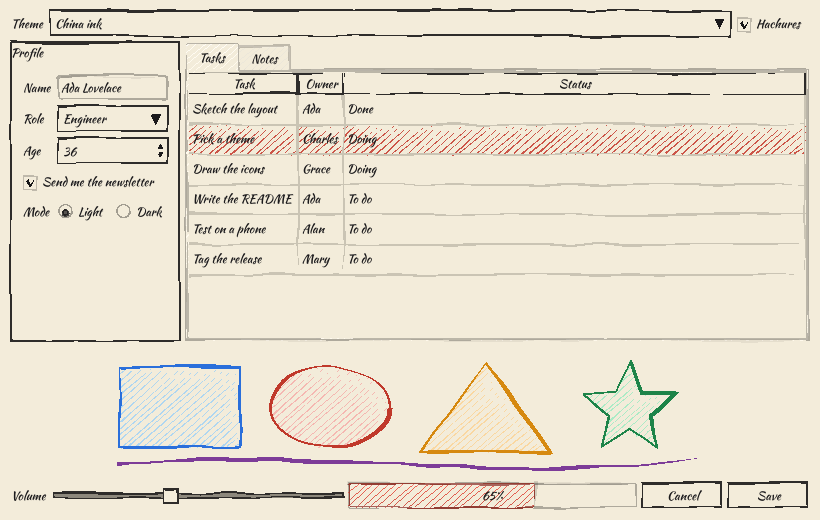
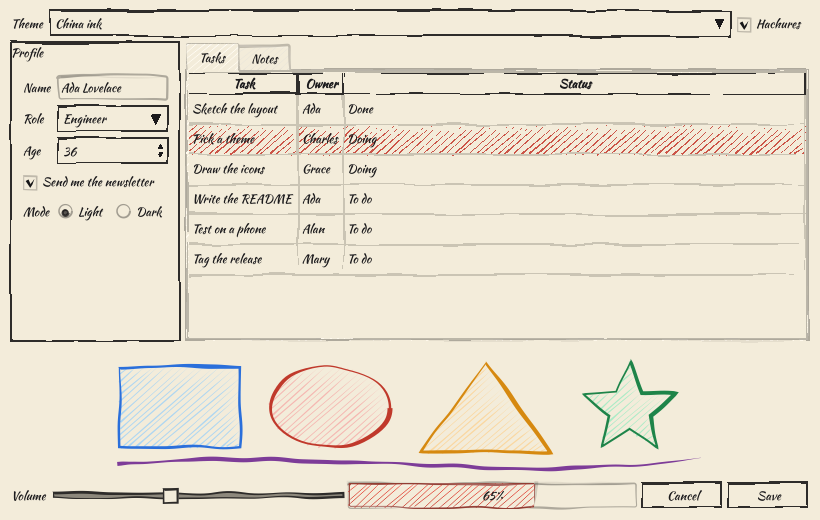
Smooth where the painter asks for it, and keep bold and italic text
The engine dropped the QPainter::Antialiasing hint of the device painter:
every rough line and fill came out aliased, even where a widget or Fusion
asked for a smooth drawing. It now smooths as the painter says, as Qt
draws. A smoothed fill is laid tile by tile on the raster engine, as the
watercolor glaze already was: smoothed in one piece, a long ribbon takes
as many passes as it is long.

The text, written in the font of the theme, keeps the bold and the italic
of the font of the painter. A theme that writes bolder keeps its weight.

The README images are rendered again, and CLAUDE.md says to render them
again with every change of the drawing.

Claude-Session: https://claude.ai/code/session_016U3iJXttKo76SmiXhzbj7k

diff --git a/hpq/tests/HandPaintSmoothingTest.cpp b/hpq/tests/HandPaintSmoothingTest.cpp
@@ -1,0 +1,113 @@
+#include <hpq/HandPaintDevice.h>
+#include <hpq/PaintCache.h>
+#include <hpq/RoughGeometryEngine.h>
+#include <hpq/SketchTheme.h>
+
+#include <gtest/gtest.h>
+
+#include <QImage>
+#include <QPainter>
+
+#include <cstdint>
+#include <functional>
+
+// A rough shape is smoothed where the device painter asks for it, with QPainter::Antialiasing,
+// as Qt draws: its edges then have pixels between the color of the pen and the paper.
+
+namespace {
+
+// The base seed of the rough geometry engines: the tests draw the same paths at every run.
+constexpr std::uint32_t BaseSeed = 2024;
+
+constexpr int TargetSize = 300;
+
+using Paint = std::function<void(QPainter &)>;
+
+// The pixels of `image` that are neither black nor white.
+int grey_pixels(const QImage &image) {
+    int count = 0;
+    for (int y = 0; y < image.height(); ++y) {
+        for (int x = 0; x < image.width(); ++x) {
+            const int grey = qGray(image.pixel(x, y));
+            if (grey > 0 && grey < 255) {
+                ++count;
+            }
+        }
+    }
+    return count;
+}
+
+void draw_line(QPainter &painter) {
+    painter.setPen(QPen(Qt::black, 1));
+    painter.drawLine(QPointF(30, 40), QPointF(270, 200));
+}
+
+// Wider than a tile of the raster engine: it is filled in several pieces.
+void draw_wide_outline(QPainter &painter) {
+    painter.setPen(QPen(Qt::black, 4));
+    painter.setBrush(Qt::NoBrush);
+    painter.drawEllipse(QRectF(20, 20, 260, 260));
+}
+
+void fill_ellipse(QPainter &painter) {
+    painter.setPen(Qt::NoPen);
+    painter.setBrush(Qt::black);
+    painter.drawEllipse(QRectF(20, 20, 260, 260));
+}
+
+class HandPaintSmoothingTest : public testing::Test {
+protected:
+    // What `paint` draws on a white image through a HandPaintDevice whose painter asks to be
+    // smoothed, or not.
+    QImage paint_by_hand(bool smoothed, const Paint &paint, hpq::PaintCache *cache = nullptr) const {
+        QImage image(TargetSize, TargetSize, QImage::Format_RGB32);
+        image.fill(Qt::white);
+        QPainter target_painter(&image);
+        hpq::HandPaintDevice device(target_painter, m_theme, m_geometry_engine, cache);
+        QPainter painter(&device);
+        painter.setRenderHint(QPainter::Antialiasing, smoothed);
+        paint(painter);
+        painter.end();
+        target_painter.end();
+        return image;
+    }
+
+    hpq::Theme m_theme = hpq::sketch_theme();
+    hpq::RoughGeometryEngine m_geometry_engine{BaseSeed};
+};
+
+TEST_F(HandPaintSmoothingTest, LineIsSmoothedWhenThePainterAsksForIt) {
+    EXPECT_GT(grey_pixels(paint_by_hand(true, draw_line)), 100);
+}
+
+TEST_F(HandPaintSmoothingTest, LineStaysSharpWhenThePainterDoesNotAsk) {
+    EXPECT_EQ(grey_pixels(paint_by_hand(false, draw_line)), 0);
+}
+
+TEST_F(HandPaintSmoothingTest, WideOutlineKeptByTheCacheIsSmoothed) {
+    hpq::PaintCache smoothed_cache;
+    hpq::PaintCache sharp_cache;
+
+    EXPECT_GT(grey_pixels(paint_by_hand(true, draw_wide_outline, &smoothed_cache)), 500);
+    EXPECT_EQ(grey_pixels(paint_by_hand(false, draw_wide_outline, &sharp_cache)), 0);
+}
+
+TEST_F(HandPaintSmoothingTest, FillIsSmoothedWhenThePainterAsksForIt) {
+    EXPECT_GT(grey_pixels(paint_by_hand(true, fill_ellipse)), 300);
+    EXPECT_EQ(grey_pixels(paint_by_hand(false, fill_ellipse)), 0);
+}
+
+TEST_F(HandPaintSmoothingTest, SmoothedFillLeavesNoSeamBetweenItsPieces) {
+    const QImage image = paint_by_hand(true, fill_ellipse);
+
+    // Well inside the ellipse, across the cuts of the tiles: all black.
+    int not_black = 0;
+    for (int y = 80; y < 220; ++y) {
+        for (int x = 80; x < 220; ++x) {
+            not_black += qGray(image.pixel(x, y)) != 0 ? 1 : 0;
+        }
+    }
+    EXPECT_EQ(not_black, 0);
+}
+
+}  // namespace

diff --git a/hpq/src/HandPaintEngine.cpp b/hpq/src/HandPaintEngine.cpp
@@ -575,9 +575,17 @@ double HandPaintEngine::target_pixel_ratio() const {
 void HandPaintEngine::draw_on_target(const QPainterPath &path, const QPen &pen, const QBrush &brush,
                                      int system_clip_margin) {
     save_target_in_device_coordinates(system_clip_margin);
+    // Smoothed where the device painter asks for it, as Qt draws.
+    const bool smoothed = painter()->testRenderHint(QPainter::Antialiasing);
+    m_target.setRenderHint(QPainter::Antialiasing, smoothed);
     m_target.setPen(pen);
     m_target.setBrush(brush);
-    m_target.drawPath(path.translated(m_origin));
+    const QPainterPath placed = path.translated(m_origin);
+    if (smoothed && pen.style() == Qt::NoPen) {
+        fill_in_tiles(placed);
+    } else {
+        m_target.drawPath(placed);
+    }
     m_target.restore();
 }
 
@@ -589,19 +597,22 @@ void HandPaintEngine::glaze_on_target(const QPainterPath &area, const QBrush &br
     }
     m_target.setPen(Qt::NoPen);
     m_target.setBrush(brush);
-    const QPainterPath glaze = area.translated(m_origin);
+    fill_in_tiles(area.translated(m_origin));
+    m_target.restore();
+}
+
+void HandPaintEngine::fill_in_tiles(const QPainterPath &area) {
     // The raster engine of Qt smooths a path in bands, and goes over the whole path for each
     // band: a long line takes as many passes as it is long. Cut in tiles, it takes one pass a
     // tile. Another engine might smooth each tile on its own, and show the cuts.
     if (m_target.paintEngine()->type() == QPaintEngine::Raster) {
-        const QRect paintable = paintable_pixels(m_target, glaze.boundingRect());
-        for (const QPainterPath &piece : path_tiles(glaze, m_target.deviceTransform(), paintable)) {
+        const QRect paintable = paintable_pixels(m_target, area.boundingRect());
+        for (const QPainterPath &piece : path_tiles(area, m_target.deviceTransform(), paintable)) {
             m_target.drawPath(piece);
         }
     } else {
-        m_target.drawPath(glaze);
+        m_target.drawPath(area);
     }
-    m_target.restore();
 }
 
 void HandPaintEngine::save_target_in_device_coordinates(int system_clip_margin) {
@@ -660,8 +671,15 @@ void HandPaintEngine::drawTextItem(const QPointF &position, const QTextItem &tex
     if (!shows_text(m_pen.color())) {
         return;
     }
+    const QFont &text_font = text_item.font();
     QFont font = m_theme.font();
-    font.setPixelSize(pixel_size(text_item.font(), *paintDevice()));
+    font.setPixelSize(pixel_size(text_font, *paintDevice()));
+    // The text keeps its emphasis in the font of the theme: bold, unless the theme writes
+    // bolder, and italic.
+    font.setWeight(std::max(font.weight(), text_font.weight()));
+    if (text_font.italic()) {
+        font.setItalic(true);
+    }
     save_target_in_logical_coordinates();
     m_target.setPen(m_theme.medium() == Medium::Chalk ? chalk_pen(m_pen, ChalkGrain::Text, content_origin()) : m_pen);
     m_target.setFont(font);

diff --git a/hpq/tests/HandPaintTextTest.cpp b/hpq/tests/HandPaintTextTest.cpp
@@ -3,6 +3,7 @@
 #include <hpq/HandPaintDevice.h>
 #include <hpq/RoughGeometryEngine.h>
 #include <hpq/SketchTheme.h>
+#include <hpq/VelledaTheme.h>
 
 #include <gtest/gtest.h>
 
@@ -72,6 +73,54 @@ TEST_F(HandPaintTextTest, PointSizeBecomesSamePixelSizeOnDevice) {
     const int expected_pixel_size = static_cast<int>(std::lround(12.0 * m_device_dpi_y / PointsPerInch));
     EXPECT_EQ(calls[0].font.family(), ThemeFontFamily);
     EXPECT_EQ(calls[0].font.pixelSize(), expected_pixel_size);
+}
+
+TEST_F(HandPaintTextTest, BoldTextStaysBoldInThemeFont) {
+    QFont font("Helvetica");
+    font.setPixelSize(16);
+    font.setBold(true);
+
+    const std::vector<DrawCall> &calls = draw_text(font);
+
+    ASSERT_EQ(calls.size(), 1u);
+    EXPECT_EQ(calls[0].font.family(), ThemeFontFamily);
+    EXPECT_EQ(calls[0].font.weight(), QFont::Bold);
+}
+
+TEST_F(HandPaintTextTest, ItalicTextStaysItalicInThemeFont) {
+    QFont font("Helvetica");
+    font.setPixelSize(16);
+    font.setItalic(true);
+
+    const std::vector<DrawCall> &calls = draw_text(font);
+
+    ASSERT_EQ(calls.size(), 1u);
+    EXPECT_EQ(calls[0].font.family(), ThemeFontFamily);
+    EXPECT_TRUE(calls[0].font.italic());
+}
+
+TEST_F(HandPaintTextTest, RegularTextStaysRegularAndUpright) {
+    QFont font("Helvetica");
+    font.setPixelSize(16);
+
+    const std::vector<DrawCall> &calls = draw_text(font);
+
+    ASSERT_EQ(calls.size(), 1u);
+    EXPECT_EQ(calls[0].font.weight(), QFont::Normal);
+    EXPECT_FALSE(calls[0].font.italic());
+}
+
+TEST_F(HandPaintTextTest, ThemeThatWritesBoldKeepsItsWeightForRegularText) {
+    // The markers of the Velleda theme write bold.
+    m_theme = hpq::velleda_theme();
+    QFont font("Helvetica");
+    font.setPixelSize(16);
+    font.setWeight(QFont::Light);
+
+    const std::vector<DrawCall> &calls = draw_text(font);
+
+    ASSERT_EQ(calls.size(), 1u);
+    EXPECT_EQ(calls[0].font.weight(), QFont::Bold);
 }
 
 }  // namespace

diff --git a/hpq/include/hpq/HandPaintEngine.h b/hpq/include/hpq/HandPaintEngine.h
@@ -20,6 +20,8 @@ namespace hpq {
 
 // Paint engine that draws each primitive it receives on a target QPainter,
 // changed by a GeometryEngine and drawn as a Theme says.
+// As Qt draws, it smooths what the painter draws with the Antialiasing hint. It writes the text
+// in the font of the theme, bold or italic when the font of the painter is.
 // With a cache, it keeps there the rough paths and the washes that it makes, and takes them
 // back when it draws the same shape again: the drawing is the same, made faster. The cache
 // must serve this theme and this geometry engine only, and outlive the engine.
@@ -131,12 +133,16 @@ private:
     QPointF line_origin(const QPainterPath &logical_line) const;
     double target_pixel_ratio() const;
     // Draws `path` on the target with `pen` and `brush`, leaving the target state unchanged.
+    // It is smoothed when the device painter has the Antialiasing hint.
     // The system clip is grown by `system_clip_margin`.
     void draw_on_target(const QPainterPath &path, const QPen &pen, const QBrush &brush,
                         int system_clip_margin = 0);
     // Fills `area` on the target with `brush` as a paint brush leaves watercolor: with a smooth
     // edge, and as a glaze that darkens what is under it, when the target can do that.
     void glaze_on_target(const QPainterPath &area, const QBrush &brush, int system_clip_margin);
+    // Fills `area` with the pen and the brush of the target: on the raster engine, which
+    // smooths a large path slowly, tile by tile.
+    void fill_in_tiles(const QPainterPath &area);
     // Saves the target state, then intersects the target clip with the system clip and the
     // device painter's clip.
     // What is drawn next is in device coordinates; restore the target when done.

diff --git a/CLAUDE.md b/CLAUDE.md
@@ -70,6 +70,10 @@ WebAssembly : `-DHPQ_BUILD_TESTS=OFF` (pas de GoogleTest), page dans `Examples/w
 * constant names: `PascalCase` ; no k in front of it
 * attribute names: `m_snake_case` ; prefix `m_` 
 
+## Images du README
+
+Les images du README (`docs/images`) montrent toujours le rendu actuel : un changement qui modifie ce que dessine hpq les régénère dans la même pull request (`QT_QPA_PLATFORM=offscreen build/tools/screenshots/HpqThemeScreenshots docs/images`), puis vérifie que seules les images attendues ont changé.
+
 ## Versions et release
 
 La version est dans `project()` (`CMakeLists.txt`), `vcpkg.json` et `CHANGELOG.md` (le test `HpqVersionsAgree` vérifie qu'ils concordent). Chaque changement notable va dans la section `[Unreleased]` de `CHANGELOG.md`. Pousser le tag `v<version>` (ou lancer le workflow `Release` à la main) crée la release GitHub avec les notes du changelog.

diff --git a/CHANGELOG.md b/CHANGELOG.md
@@ -19,6 +19,11 @@ All notable changes to Hand Painting for Qt are written here. The format follows
   their light gradient.
 - A theme made before the `QApplication` no longer crashes in `QFontDatabase`: it warns and has
   no font family, and the themes made once the application exists get their font.
+- A painter with the `QPainter::Antialiasing` hint gets a smooth drawing, as Qt draws it: the
+  hint no longer stops at the hand-painted engine. The shapes of the example application, and
+  in Fusion the fields, the check boxes, the radio buttons and the slider, are smoothed.
+- A bold or an italic text stays bold or italic in the font of the theme: for example, the
+  header of a view writes in bold the columns of the selected row, as Qt does.
 
 ## [0.1.0] - 2026-11-24
 
